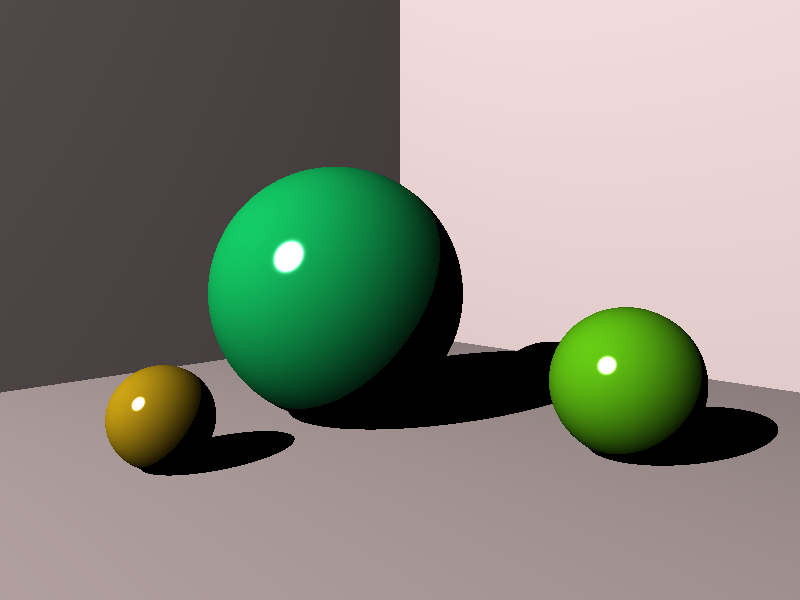
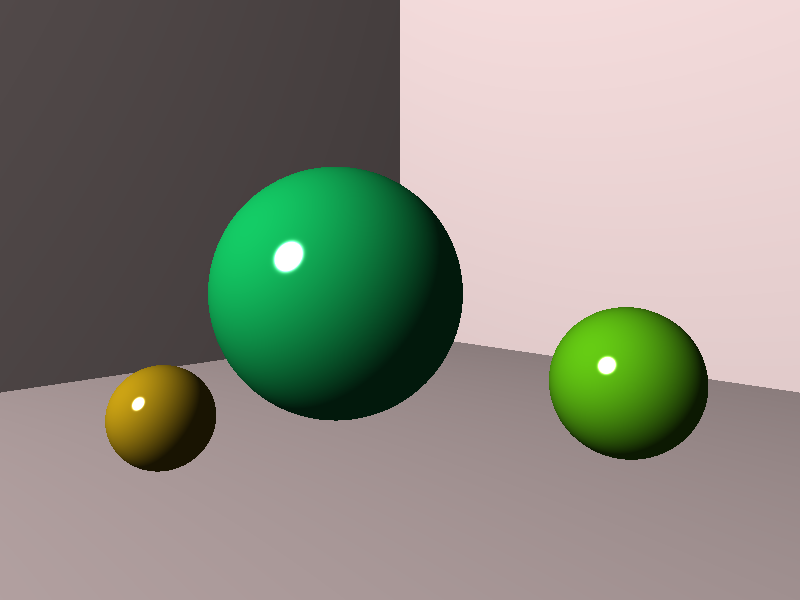
Use AmbientLight as a global light source. Ambient color component does not participate in shadow color calculation

Changed region(s): [[0.1875, 0.36, 0.7188, 0.81], [0.75, 0.6, 0.9688, 0.78]]

diff --git a/src/Protsyk.RayTracer.Challenge.Core/Scene/Lighting.cs b/src/Protsyk.RayTracer.Challenge.Core/Scene/Lighting.cs
@@ -4,14 +4,12 @@ namespace Protsyk.RayTracer.Challenge.Core.Scene
 {
     public struct Lighting
     {
-        public readonly double ambient;
         public readonly double diffuse;
         public readonly double specular;
         public readonly double intensity;
 
-        public Lighting(double ambient, double diffuse, double specular, double intensity)
+        public Lighting(double diffuse, double specular, double intensity)
         {
-            this.ambient = ambient;
             this.diffuse = diffuse;
             this.specular = specular;
             this.intensity = intensity;
@@ -20,7 +18,6 @@ namespace Protsyk.RayTracer.Challenge.Core.Scene
         public override bool Equals(object obj)
         {
             return obj is Lighting other &&
-                   ambient == other.ambient &&
                    diffuse == other.diffuse &&
                    specular == other.specular &&
                    intensity == other.intensity;
@@ -28,25 +25,24 @@ namespace Protsyk.RayTracer.Challenge.Core.Scene
 
         public override int GetHashCode()
         {
-            return HashCode.Combine(ambient, diffuse, specular);
+            return HashCode.Combine(diffuse, specular);
         }
 
-        public void Deconstruct(out double ambient, out double diffuse, out double specular, out double intensity)
+        public void Deconstruct(out double diffuse, out double specular, out double intensity)
         {
-            ambient = this.ambient;
             diffuse = this.diffuse;
             specular = this.specular;
             intensity = this.intensity;
         }
 
-        public static implicit operator (double ambient, double diffuse, double specular, double intensity)(Lighting value)
+        public static implicit operator (double diffuse, double specular, double intensity)(Lighting value)
         {
-            return (value.ambient, value.diffuse, value.specular, value.intensity);
+            return (value.diffuse, value.specular, value.intensity);
         }
 
-        public static implicit operator Lighting((double ambient, double diffuse, double specular, double intensity) value)
+        public static implicit operator Lighting((double diffuse, double specular, double intensity) value)
         {
-            return new Lighting(value.ambient, value.diffuse, value.specular, value.intensity);
+            return new Lighting(value.diffuse, value.specular, value.intensity);
         }
     }
 }

diff --git a/src/Protsyk.RayTracer.Challenge.ConsoleUtil/Program.cs b/src/Protsyk.RayTracer.Challenge.ConsoleUtil/Program.cs
@@ -306,7 +306,7 @@ namespace Protsyk.RayTracer.Challenge.ConsoleUtil
             return (camera, scene, ColorConverters.Tuple255);
         }
 
-        static (ICamera camera, BaseScene scene, IColorConverter<Tuple4> colorConverter) SceneChapter7()
+        static (ICamera camera, BaseScene scene, IColorConverter<Tuple4> colorConverter) SceneChapter7(bool castShadows)
         {
             // Camera
             var camera = new FovCamera2(MatrixOperations.Geometry3D.ViewTransform(
@@ -363,7 +363,7 @@ namespace Protsyk.RayTracer.Challenge.ConsoleUtil
                                      MatrixOperations.Geometry3D.Translation(0, 0, 5),
                                      MatrixOperations.Multiply(
                                          MatrixOperations.Multiply(
-                                             MatrixOperations.Geometry3D.RotateY(-Math.PI/4),
+                                             MatrixOperations.Geometry3D.RotateY(-Math.PI / 4),
                                              MatrixOperations.Geometry3D.RotateX(Math.PI / 2)),
                                          MatrixOperations.Geometry3D.Scale(10, 0.01, 10))), floorMaterial), // left wall
                                  S(MatrixOperations.Multiply(
@@ -381,8 +381,9 @@ namespace Protsyk.RayTracer.Challenge.ConsoleUtil
                                      MatrixOperations.Geometry3D.Translation(-1.5, 0.33, -0.75),
                                      MatrixOperations.Geometry3D.Scale(0.33, 0.33, 0.33)), leftMaterial) // left sphere
                             ).WithLights(
-                               L(-10, 10, -10, 1)
-                            );
+                               L(-10, 10, -10, 1),
+                               A(1.0)
+                            ).WithShadows(castShadows);
 
             return (camera, scene, ColorConverters.Tuple1);
         }
@@ -483,7 +484,8 @@ namespace Protsyk.RayTracer.Challenge.ConsoleUtil
                 { "SDE", isSimple => SceneSDE(isSimple) },
 
                 { "Chapter5", isSimple => SceneChapter5(isSimple) },
-                { "Chapter7", _=> SceneChapter7() }
+                { "Chapter7", _=> SceneChapter7(false) },
+                { "Chapter8", _=> SceneChapter7(true) }
             };
 
             var outputFileName = args.Length > 1 ? args[1] : "out.ppm";

diff --git a/src/Protsyk.RayTracer.Challenge.Core/Scene/Lights/DirectionLightCommon.cs b/src/Protsyk.RayTracer.Challenge.Core/Scene/Lights/DirectionLightCommon.cs
@@ -10,7 +10,6 @@ namespace Protsyk.RayTracer.Challenge.Core.Scene.Lights
     {
         private static Lighting GetIntensity(IMaterial material, Tuple4 lightDirection, double intensity, Tuple4 eyeVector, Tuple4 pointOnSurface, Tuple4 surfaceNormal)
         {
-            var ambient = material.Ambient;
             var diffuse = 0.0;
             var specular = 0.0;
 
@@ -21,7 +20,7 @@ namespace Protsyk.RayTracer.Challenge.Core.Scene.Lights
 
                 if (material.IsShining())
                 {
-                    //var reflected = Tuple4.Subtract(Tuple4.Multiply(2*Tuple4.Dot(surfaceNormal, lightDirection), surfaceNormal), lightDirection);
+                    // var reflected = Tuple4.Subtract(Tuple4.Scale(surfaceNormal, 2 * Tuple4.DotProduct(surfaceNormal, lightDirection)), lightDirection);
                     var reflected = Tuple4.Reflect(Tuple4.Negate(lightDirection), surfaceNormal);
                     var reflectedDotDir = Tuple4.DotProduct(reflected, eyeVector);
                     if (reflectedDotDir > 0)
@@ -31,18 +30,16 @@ namespace Protsyk.RayTracer.Challenge.Core.Scene.Lights
                 }
             }
 
-            return (ambient, diffuse, specular, intensity);
+            return (diffuse, specular, intensity);
         }
 
         public static Tuple4 GetShadedColor(IMaterial material, Tuple4 white, Tuple4 lightDirection, double intensity, Tuple4 eyeVector, Tuple4 pointOnSurface, Tuple4 surfaceNormal)
         {
             Tuple4 color = material.Color;
             Lighting lighting = GetIntensity(material, lightDirection, intensity, eyeVector, pointOnSurface, surfaceNormal);
-
             var shadedColor = Tuple4.Add(
-                Tuple4.Scale(color, lighting.intensity * (lighting.ambient + lighting.diffuse)),
+                Tuple4.Scale(color, lighting.intensity * lighting.diffuse),
                 Tuple4.Scale(white, lighting.specular)
-                // TODO (Original shading): Tuple4.Scale(color, lighting.intensity * lighting.specular)
             );
             return shadedColor;
         }

diff --git a/src/Protsyk.RayTracer.Challenge.Core/Scene/BaseScene.cs b/src/Protsyk.RayTracer.Challenge.Core/Scene/BaseScene.cs
@@ -69,13 +69,16 @@ namespace Protsyk.RayTracer.Challenge.Core.Scene
         public bool IsShadowed(ILight light, Tuple4 pointOnSurface)
         {
             var lightDir = light.GetLightDirection(pointOnSurface);
-            var distance = light.GetLightDistance(pointOnSurface);
             if (!lightDir.Equals(Tuple4.ZeroVector))
             {
                 var lh = CalculateIntersection(Tuple4.Add(pointOnSurface, Tuple4.Scale(lightDir, 0.01f)), lightDir);
-                if (lh.IsHit && lh.Distance < distance)
+                if (lh.IsHit)
                 {
-                    return true;
+                    var distance = light.GetLightDistance(pointOnSurface);
+                    if (lh.Distance < distance)
+                    {
+                        return true;
+                    }
                 }
             }
             return false;

diff --git a/src/Protsyk.RayTracer.Challenge.Core/Scene/Lights/AmbientLight.cs b/src/Protsyk.RayTracer.Challenge.Core/Scene/Lights/AmbientLight.cs
@@ -27,8 +27,7 @@ namespace Protsyk.RayTracer.Challenge.Core.Scene.Lights
 
         public Tuple4 GetShadedColor(IMaterial material, Tuple4 eyeVector, Tuple4 pointOnSurface, Tuple4 surfaceNormal)
         {
-            // TODO (Original shading): Tuple4.Scale(material.Color, intensity)
-            return Tuple4.Scale(material.Color, material.Ambient * intensity);
+            return DirectionLightCommon.GetAmbientColor(material);
         }
     }
 
